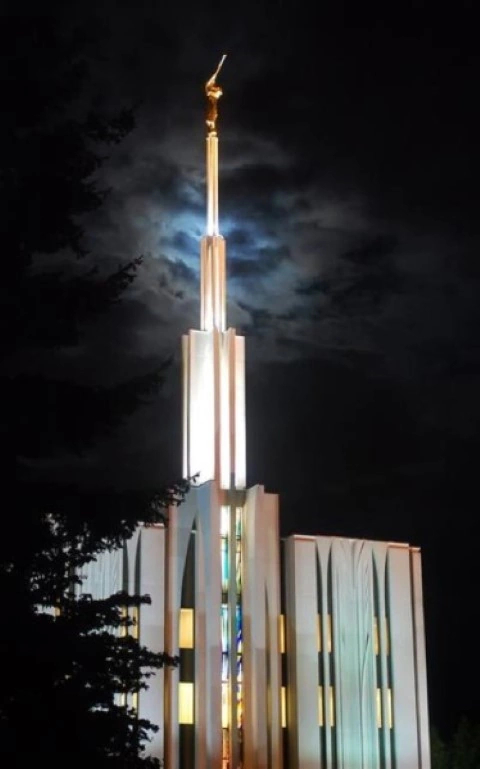
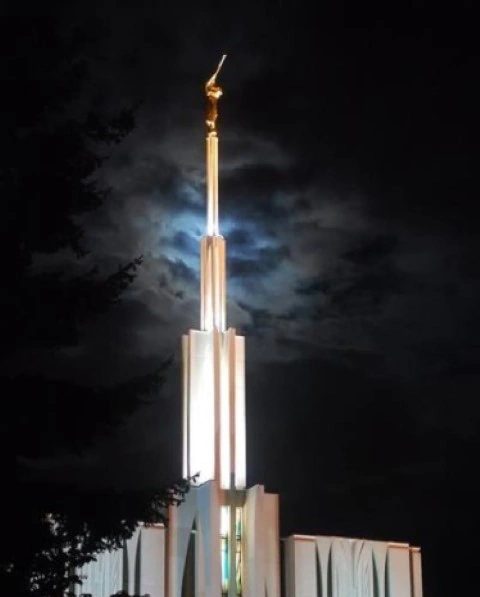
Resized gallery images

diff --git a/project/css/style.css b/project/css/style.css
@@ -93,7 +93,7 @@ header {
 }
 header a.logo {
   display: block;
-  background: url("../images/Sunstone-transparent.png");
+  background: url("../images/Sunstone-transparent.webp");
   background-size: 90px;
   background-position: center center;
   background-repeat: no-repeat;
@@ -165,8 +165,8 @@ main {
   background-image: url("../images/hero-edited.webp");
 }
 .seattle-spotlight {
-  background-image: url("../images/seattle_washington_temple_exterior.webp");
-  background-position: bottom 40% left 0;
+  background-image: url("../images/seattle_washington_temple_exterior-short.webp");
+  background-position: top;
 }
 .breakfast-buffet {
   background-image: url("../images/breakfast-buffet-hero.webp");
@@ -305,14 +305,24 @@ p.info {
 .social a {
   display: inline-block;
   margin-left: 15px;
-}
-.social img {
   border-radius: 32px;
   box-shadow: 2px 2px 5px black;
+  height: 64px;
+  width: 64px;
 }
 .social a:hover {
   transform: scale(1.1);
   transition: 200ms ease-in;
+}
+
+.social > a[href*=twitter] {
+  background-image: url('https://cdn3.iconfinder.com/data/icons/capsocial-round/500/twitter-64.png');
+}
+.social > a[href*=facebook] {
+  background-image: url('https://cdn3.iconfinder.com/data/icons/capsocial-round/500/facebook-64.png');
+}
+.social > a[href*=instagram] {
+  background-image: url('https://cdn1.iconfinder.com/data/icons/smallicons-logotypes/32/instagram-64.png');
 }
 
 .copyright {
@@ -349,11 +359,11 @@ section .gallery img {
   width: 780px;
   overflow: hidden;
   box-shadow: 10px 10px 40px var(--primary-color);
-  border-radius: 1rem;
+  border-radius: 2rem;
 }
 .gallery li {
   width: 76px;
-  height: 599px;
+  height: 597px;
   float: left;
   transition: all 0.7s;
   box-shadow: -2px 0 15px 2px var(--primary-color);

diff --git a/site-plan.html b/site-plan.html
@@ -44,12 +44,12 @@
       <h3>Website Logo</h3>
       <p>
         <img
-          src="images/temple-inn-logo.png"
+          src="images/temple-inn-logo.webp"
           alt="Temple Inn & Suites logo"
           height="200"
         />
         <img
-          src="images/temple-inn-logo.png"
+          src="images/temple-inn-logo.webp"
           alt="Temple Inn & Suites logo"
           height="100"
         />
@@ -124,7 +124,7 @@
       <h3>Wireframes</h3>
       <p>
         <img
-          src="images/wireframe-large-templeInn&suites.png"
+          src="images/wireframe-large-templeInn&suites.webp"
           alt="A wireframe diagram of a webpage"
         />
       </p>
